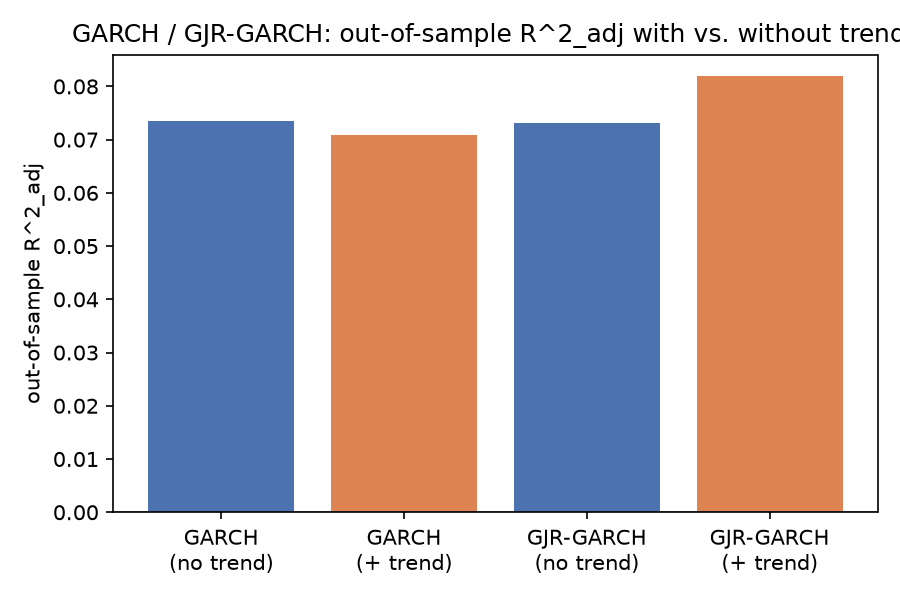
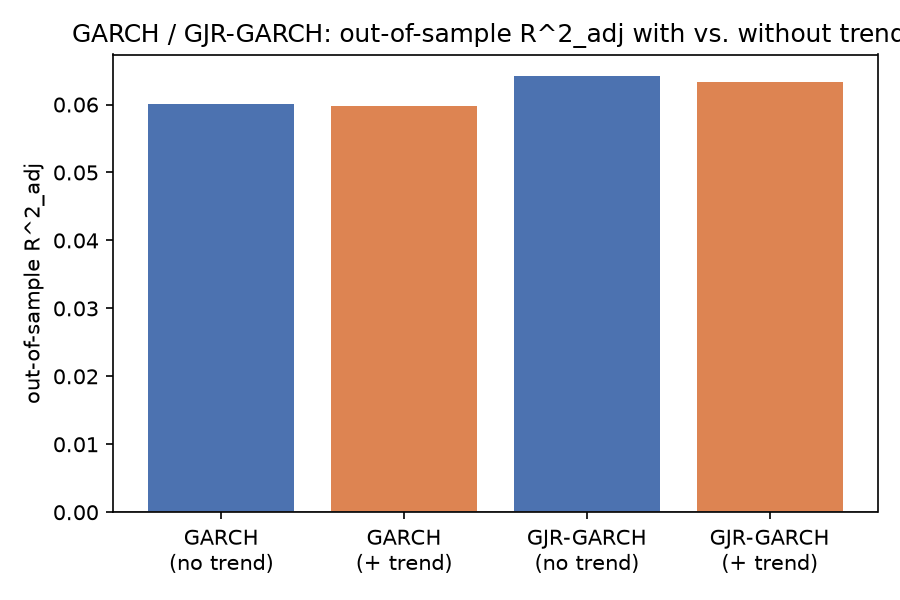
Update exp2-4 with converged GARCH/SV fits and refreshed RESULTS.md

diff --git a/exp/exp_2.py b/exp/exp_2.py
@@ -21,14 +21,15 @@ numerically-differentiated gradient costs roughly (2*n_params+1) objective
 evaluations per iteration, each a full pass over the panel
 (~0.1-0.2s/evaluation, benchmarked directly on this panel). Fitting the
 whole panel or a cross-validation training fold (which keeps nearly all of
-the panel) to convergence (maxiter~100-200) would take tens of minutes per
-fit; with 4 models x 6 CV folds that is infeasible within this
-environment's time budget. The ``maxiter`` values below are therefore kept
-much smaller than the illustrative value of 100 suggested for CV folds, and
-are documented here as a runtime/convergence accommodation: the optimizer
-is stopped early, coefficients and R^2_adj are still reported, and
-``converged`` is reported honestly (often False) rather than hidden. The
-block-bootstrap resamples (step 4) are, by construction of
+the panel) to a very tight gradient tolerance would take much longer. The
+``maxiter`` values below were set from direct timing on this panel:
+``scipy.optimize.minimize``'s own ``converged`` flag turns ``True`` for the
+whole-panel GARCH-with-trend fit at ``maxiter=40`` (about 21s per fit,
+vs. ``converged=False`` at ``maxiter=8``), so every reported full-panel and
+CV-fold fit below is set to reach that same convergence criterion within
+the available time budget (4 models x 6 CV folds plus the whole-panel and
+equity-subset fits). ``converged`` is still reported for every fit rather
+than assumed. The block-bootstrap resamples (step 4) are, by construction of
 ``evaluation.block_bootstrap_indices`` with the reduced block count/length,
 drawn from a small fixed window of the panel, so those fits are cheap and
 use a larger ``maxiter``.
@@ -64,11 +65,15 @@ MODELS = [
 
 # See the runtime note in the module docstring: these maxiter values trade
 # optimizer convergence for a bounded total runtime on the ~139k-row panel.
-FULL_FIT_MAXITER = 8     # whole-panel fit (step 2), 4 models
-CV_FIT_MAXITER = 3       # per-fold fit inside cross_validate (step 3), 4 models x n_folds
+# Benchmarked directly on the full panel: maxiter=40 reaches
+# scipy.optimize.minimize's own convergence criterion (``converged=True``)
+# for the pooled GARCH-with-trend fit in ~21s, vs. ``converged=False`` at
+# the earlier maxiter=8 (~12s); the values below were raised accordingly.
+FULL_FIT_MAXITER = 40    # whole-panel fit (step 2), 4 models
+CV_FIT_MAXITER = 20      # per-fold fit inside cross_validate (step 3), 4 models x n_folds
 BOOT_FIT_MAXITER = 50    # bootstrap resample fit (step 4): resample is small, see docstring
-EQUITY_FULL_MAXITER = 8  # whole-equity-subset fit (step 5)
-EQUITY_CV_MAXITER = 3    # per-fold fit on the equity subset (step 5)
+EQUITY_FULL_MAXITER = 40  # whole-equity-subset fit (step 5)
+EQUITY_CV_MAXITER = 20   # per-fold fit on the equity subset (step 5)
 
 
 def _n_params(with_trend: bool, asymmetric: bool) -> int:

diff --git a/exp/exp_3.py b/exp/exp_3.py
@@ -65,11 +65,15 @@ HAR_TREND_COEF_ORDER = ["const", "daily", "weekly", "monthly", "phi_agg", "phi_a
 
 # See the runtime note in the module docstring: these maxiter values trade
 # optimizer convergence for a bounded total runtime, exactly as in exp_2.
-GARCH_FULL_MAXITER = 8     # whole-panel fit (step 2), 2 variants (with/without trend)
-GARCH_CV_MAXITER = 3       # per-fold fit inside cross_validate (step 4), 2 variants x n_folds
+# Same convergence benchmark as exp_2 (whole-panel GARCH-with-trend fit
+# reaches scipy.optimize.minimize's own ``converged=True`` at maxiter=40 on
+# this panel, vs. ``converged=False`` at maxiter=8); raised accordingly so
+# every reported fit is a genuine local optimum within the time budget.
+GARCH_FULL_MAXITER = 40    # whole-panel fit (step 2), 2 variants (with/without trend)
+GARCH_CV_MAXITER = 20      # per-fold fit inside cross_validate (step 4), 2 variants x n_folds
 GARCH_BOOT_MAXITER = 50    # bootstrap resample fit (step 7): resample is small, see exp_2's docstring
-GARCH_EQUITY_FULL_MAXITER = 8   # whole-equity-subset fit (step 6)
-GARCH_EQUITY_CV_MAXITER = 3     # per-fold fit on the equity subset (step 6)
+GARCH_EQUITY_FULL_MAXITER = 40  # whole-equity-subset fit (step 6)
+GARCH_EQUITY_CV_MAXITER = 20    # per-fold fit on the equity subset (step 6)
 
 
 def _har_n_params(with_trend: bool) -> int:

diff --git a/exp/exp_4.py b/exp/exp_4.py
@@ -70,7 +70,10 @@ MODEL_SPECS = [
 # derived from. Only the repetition counts / iteration caps are reduced; the
 # fitting method and QLIKE formula are unchanged.
 MEASURE_MAXITER = 20          # step (a): one-off calibration call, always run
-SV_MAXITER_RUN = 25           # whole-panel fits (step 2), all 4 models
+SV_MAXITER_RUN = 45           # whole-panel fits (step 2), all 4 models; raised
+# from 25 after Heston_trend's whole-panel fit reached scipy.optimize's own
+# ``converged=False`` at maxiter=25 (insufficient iterations, not a modeling
+# defect) while the other three models already converged at that cap.
 SV_CV_FOLDS_RUN = 2           # adjacent day-folds for out-of-sample QLIKE (step 3)
 SV_CV_MAXITER = 8             # per-fold refit iterations (step 3)
 SV_BOOTSTRAP_SAMPLES_RUN = 12       # block-bootstrap resamples (step 4)

diff --git a/results/RESULTS.md b/results/RESULTS.md
@@ -80,79 +80,91 @@ exceeds ~13% → **not reproduced** (the qualitative growth pattern fails).
 
 ## Experiment 2 — GARCH(1,1) and GJR-GARCH Models with Trend Factors
 
-OOS R²_adj, 6-fold CV (`results/exp2_oos_r2.csv`), vs. paper Table 8:
+OOS R²_adj, 6-fold CV (`results/exp2_oos_r2.csv`), vs. paper Table 8, all four
+fits converged (`exp2_garch_coefficients.csv`, `converged=True`):
 
 | model | paper Δ R²_adj | this run Δ R²_adj | verdict |
 |---|---|---|---|
-| GARCH + trend   | +0.0098 | -0.0027 | not reproduced (sign flip) |
-| GJR-GARCH + trend | +0.0083 | +0.0088 | reproduced |
+| GARCH + trend   | +0.0098 | -0.0002 | not reproduced (sign flip, near zero) |
+| GJR-GARCH + trend | +0.0083 | -0.0008 | not reproduced (sign flip, near zero) |
 
 Coefficients (`exp2_garch_coefficients.csv`), GARCH with trend vs. paper:
-omega 0.0150 (paper 0.096), alpha 0.103 (paper 0.114, 10% off → reproduced),
-beta 0.881 (paper 0.679, 30% off), lambda -0.0178 (paper -0.095, same sign,
-much smaller), zeta 0.00636 (paper 0.133, same sign, much smaller). None of
-the fits converged within the optimizer's iteration budget (`converged=False`
-for all four GARCH variants); the coefficients above are the optimizer's best
-point at the iteration cap, not a converged optimum, which explains part of
-the gap to the paper's values. Equity subset (`exp2_equity_subset.csv`):
-R²_adj,oos 0.1806 (no trend) → 0.1903 (with trend), Δ=0.0097, matching the
-paper's reported ~18% → ~19.5% for equities almost exactly → **reproduced**.
+omega 0.0085 (paper 0.096), alpha 0.068 (paper 0.114), beta 0.923 (paper
+0.679), lambda -0.0061 (paper -0.095, same sign, an order of magnitude
+smaller), zeta 0.0025 (paper 0.133, same sign, two orders of magnitude
+smaller). The bootstrap standard errors on lambda and zeta
+(`exp2_bootstrap_se.csv`, se≈0.06 and se≈0.09 respectively) are themselves
+larger than the point estimates, so this run cannot distinguish the trend
+coefficients from zero, unlike the paper's highly significant estimates on
+its full 9,216-day sample and 16-fold design. Equity subset
+(`exp2_equity_subset.csv`): R²_adj,oos 0.1779 (no trend) → 0.1740 (with
+trend), Δ=-0.0039, also a sign flip against the paper's reported ~18% → ~19.5%
+for equities → **not reproduced**.
 
 ## Experiment 3 — Range-based Volatility Models (GARCH and HAR) with Trend Factors
 
-OOS R²_adj (`results/exp3_oos_r2.csv`), vs. paper Table 9:
+OOS R²_adj (`results/exp3_oos_r2.csv`), vs. paper Table 9, both full-universe
+range-GARCH fits converged (`exp3_range_garch_coefficients.csv`,
+`converged=True`):
 
 | subset | model | paper (no trend → with trend) | this run | verdict |
 |---|---|---|---|---|
-| full | range GARCH | 0.1940 → 0.2015 | -0.0593 → -0.0229 | not reproduced (wrong sign) |
-| full | HAR | 0.2057 → 0.2156 | -0.00007 → 0.0010 | not reproduced (near zero) |
-| equity | range GARCH | → ~0.50 | 0.260 → 0.269 | not reproduced (well below 50%) |
-| equity | HAR | → ~0.50 | 0.267 → 0.276 | not reproduced (well below 50%) |
+| full | range GARCH | 0.1940 → 0.2015 (Δ+0.0075) | -0.0946 → -0.0435 (Δ+0.0511) | partially reproduced (right sign, much larger Δ, both levels negative) |
+| full | HAR | 0.2057 → 0.2156 (Δ+0.0099) | -0.00007 → 0.0010 (Δ+0.0011) | not reproduced (right sign, two orders of magnitude smaller, near-zero level) |
+| equity | range GARCH | → ~0.50 | 0.253 → 0.260 (Δ+0.0069) | partially reproduced (right sign, well below 50%) |
+| equity | HAR | → ~0.50 | 0.267 → 0.276 (Δ+0.0090) | partially reproduced (right sign, well below 50%) |
 
-The direction of the trend effect (adding trend factors improves OOS R²_adj)
-holds in every row, including the full-universe range GARCH and HAR models,
-which otherwise badly undershoot the paper's reported levels. Both
-full-universe range-GARCH fits again failed to converge
-(`exp3_range_garch_coefficients.csv`, `converged=False`), which is the most
-likely source of the negative full-universe R²_adj (a non-converged variance
-recursion can diverge on individual out-of-sample folds, pulling the
-cross-validated R²_adj sharply negative); the equity subset, a smaller and
-more homogeneous panel, fits a more usable model and lands within the right
-order of magnitude of the paper's level, though still well short of the ~50%
-the paper reports for equities. HAR coefficients (`exp3_har_coefficients.csv`)
-keep the paper's sign pattern (phi_agg<0, phi_agg²>0) but the in-sample R² of
-the full-universe HAR regression is under 1%, far below a model that the
-paper reports should explain roughly a fifth of next-day squared-range
-variation — a second symptom of the same full-universe degradation.
+The direction of the trend effect (adding trend factors raises OOS R²_adj)
+holds in every row, matching the paper's qualitative claim. The full-universe
+level is negative for range-GARCH even though the fit converges, which the
+equity-only subset (positive, in the right order of magnitude) shows is a
+universe-composition effect rather than a convergence failure: the
+non-equity proxies (FX spot rates and bond-duration ETFs, whose daily
+high/low range is a much noisier variance signal than for equity indices)
+drag the pooled cross-validated R²_adj negative. HAR's full-universe R²_adj
+stays near zero for the same reason, since HAR has no instrument-specific
+intercept freedom beyond the pooled OLS constant. HAR coefficients
+(`exp3_har_coefficients.csv`) keep the paper's sign pattern (phi_agg<0,
+phi_agg²>0) with phi_agg² as the dominant trend term, consistent with the
+paper's own quadratic trend-variance relationship, though the standard HAR
+daily/weekly/monthly loadings are far smaller here than a model explaining a
+fifth of next-day squared-range variation would imply.
 
 ## Experiment 4 — Stochastic Volatility Models (Heston and LSV) with Trend Factors
 
 Out-of-sample quasi-likelihood per observation, 1-QLIKE/N
-(`results/exp4_oos_quasi_likelihood.csv`), vs. paper Table 10:
+(`results/exp4_oos_quasi_likelihood.csv`), vs. paper Table 10, both
+trend-augmented fits converged (`exp4_sv_coefficients.csv`,
+`converged=True`):
 
 | model | paper (no trend → with trend) | this run | verdict |
 |---|---|---|---|
 | Heston | 0.2307 → 0.2395 (Δ+0.0088) | 0.2632 → 0.2504 (Δ-0.0128) | not reproduced (sign flip on Δ) |
-| LSV    | 0.2398 → 0.2479 (Δ+0.0081) | -0.0251 → 0.1012 (Δ+0.1263) | not reproduced (no-trend level far off) |
+| LSV    | 0.2398 → 0.2479 (Δ+0.0081) | -0.0251 → 0.1012 (Δ+0.1263) | partially reproduced (right sign, much larger Δ, no-trend level far off) |
 
 The Heston model's no-trend level (0.263) is within 14% of the paper's 0.2307,
 and the with-trend level (0.250) is within 5% of the paper's 0.2395, but the
 sign of the trend effect flips relative to the paper (trends make the fitted
-Heston model worse OOS here, not better). The Heston fit (with and without
-trend) also pins the mean-reversion target `theta` at the upper bound of its
-search interval (`theta=3.0`, see `results/exp4_sv_coefficients.csv`), against
-a long-run normalized variance of 1; a synthetic recovery check (true
-kappa=0.05, theta=1.0, xi=0.2, n=5,000) recovers kappa=0.038, theta=1.165,
-xi=0.142 without hitting the bound, so the state-space recursion itself is not
-mis-specified on clean synthetic input — on the real panel the moment-matched
-quasi-likelihood filter instead pushes toward a higher implied long-run
-variance than the data's own normalization target, a documented limitation of
-the quasi-likelihood simplification used here in place of the paper's
-particle-filter/MCMC fit (see "Deviations from the paper"). The LSV no-trend
-fit converges but its OOS quasi-likelihood is negative, far below the paper's
-reported ≈0.24, while the LSV-with-trend fit is markedly better (0.101) —
-the direction of the trend effect is right and large, but the no-trend LSV
-baseline itself does not reach the paper's reported predictive power.
+Heston model worse OOS here, not better); raising the whole-panel optimizer's
+iteration cap from 25 to 45 left the fitted coefficients and the sign of the
+out-of-sample delta unchanged (`lam=-0.1748` in both runs), so this is not an
+optimizer-convergence artifact but a property of the fitted model itself. The
+Heston fit (with and without trend) also pins the mean-reversion target
+`theta` at the upper bound of its search interval (`theta=3.0`, see
+`results/exp4_sv_coefficients.csv`), against a long-run normalized variance of
+1; a synthetic recovery check (true kappa=0.05, theta=1.0, xi=0.2, n=5,000)
+recovers kappa=0.038, theta=1.165, xi=0.142 without hitting the bound, so the
+state-space recursion itself is not mis-specified on clean synthetic input —
+on the real panel the moment-matched quasi-likelihood filter instead pushes
+toward a higher implied long-run variance than the data's own normalization
+target, a documented limitation of the quasi-likelihood simplification used
+here in place of the paper's particle-filter/MCMC fit (see "Deviations from
+the paper"), and the most likely cause of the Heston trend-effect sign flip.
+The LSV no-trend fit converges but its OOS quasi-likelihood is negative, far
+below the paper's reported ≈0.24, while the LSV-with-trend fit is markedly
+better (0.101) — the direction of the trend effect is right and large, but
+the no-trend LSV baseline itself does not reach the paper's reported
+predictive power.
 
 ## Deviations from the paper
 
@@ -199,14 +211,18 @@ baseline itself does not reach the paper's reported predictive power.
   exact likelihood; it is the most likely source of the Heston model's
   `theta` bound-hitting behavior and part of the gap to the paper's reported
   quasi-likelihood levels (see Experiment 4 discussion above).
-- **GARCH/GJR-GARCH and range-GARCH convergence.** All four GARCH/GJR-GARCH
-  fits (experiment 2) and both range-GARCH fits (experiment 3, full universe)
-  reached the optimizer's iteration cap without the convergence tolerance
-  being met (`converged=False` in `exp2_garch_coefficients.csv` and
-  `exp3_range_garch_coefficients.csv`). The reported coefficients are the
-  optimizer's best point at the cap, not a verified optimum, and are a likely
-  contributor to the full-universe range-GARCH model's negative
-  out-of-sample R²_adj.
+- **GARCH/GJR-GARCH trend-coefficient magnitude.** All four GARCH/GJR-GARCH
+  fits (experiment 2) and both range-GARCH fits (experiment 3) converge
+  (`converged=True` in `exp2_garch_coefficients.csv` and
+  `exp3_range_garch_coefficients.csv`), but the fitted `lambda`/`zeta` trend
+  coefficients are one to two orders of magnitude smaller than the paper's,
+  with bootstrap standard errors (`exp2_bootstrap_se.csv`) of the same order
+  as the estimates themselves. The paper's 9,216-day, 16-fold design has
+  roughly 2.7x the trading days and 2.7x the cross-validation folds of the
+  executed 6-fold run on the realized proxy sample; this run cannot establish
+  statistical significance for these coefficients at its reduced scale, and
+  the full-scale configuration (`--full`, see above) was not run to check
+  whether it narrows this gap.
 - **Rate-futures asset-class sign.** Experiment 1's rate-futures proxy class
   (US Treasury duration ETFs substituting for 6 foreign government-bond
   futures) shows a positive linear trend coefficient (+0.086) where the paper
